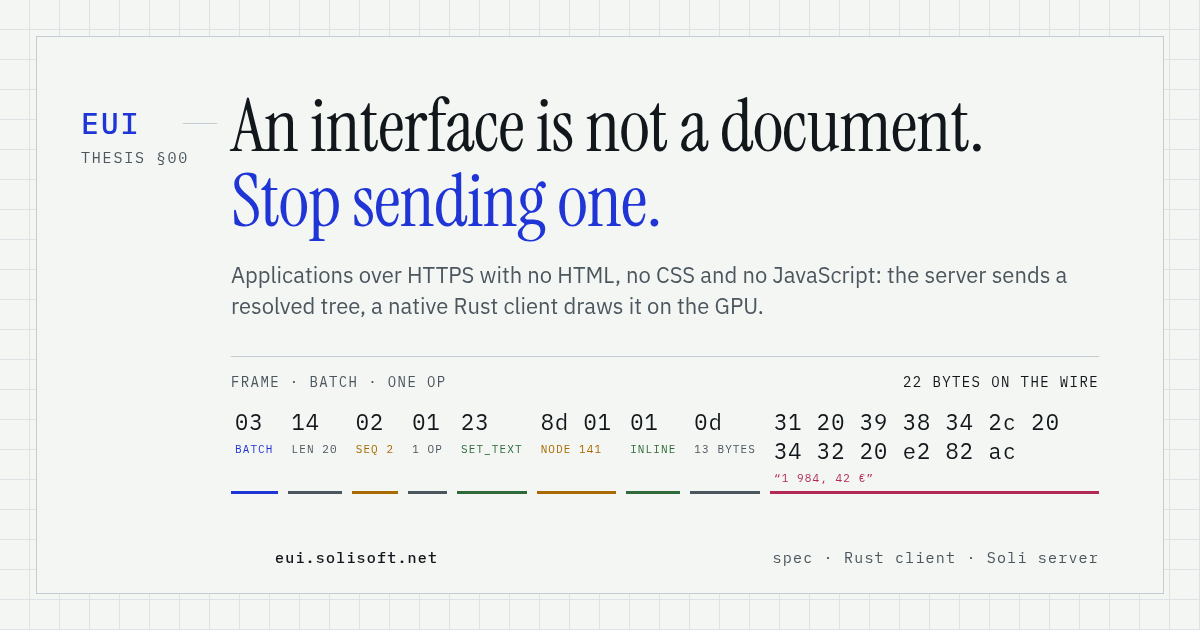
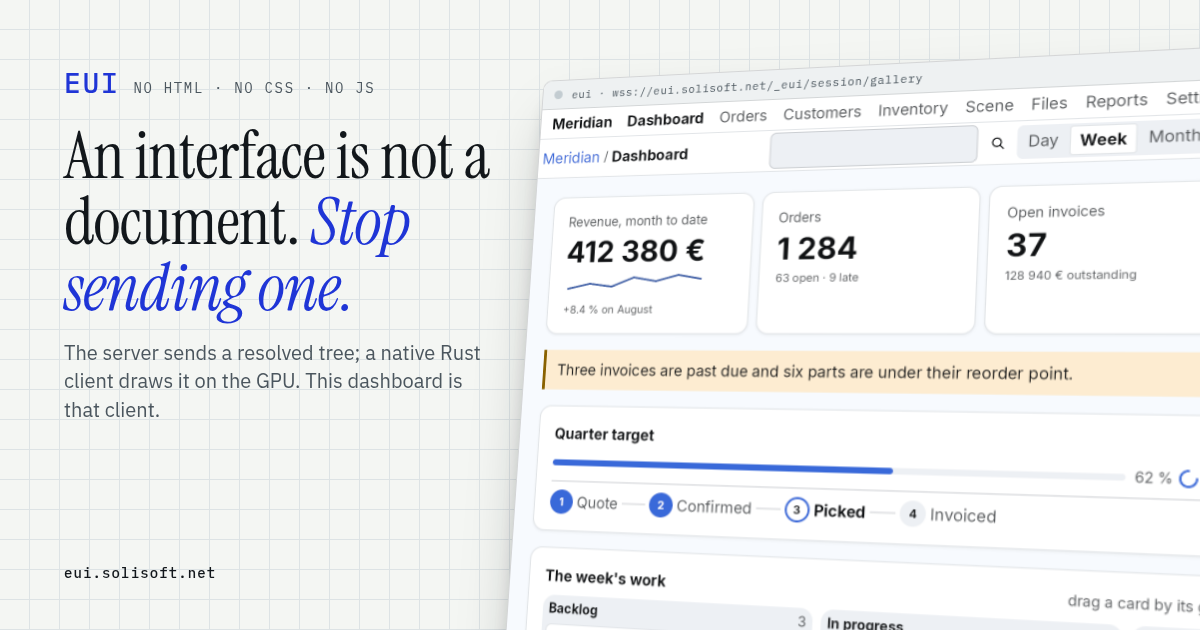
a link to the site unfurls into the demo, and every page carries the whole set of share tags
The share card is the demo's Meridian dashboard — the real render
public/images/demo/gallery-light.png — in a client window turned towards
the reader, its bar showing the session address, beside the thesis.
www/share/card.html is its source; make-share-card.sh now reads the
render from disk beside it.

The layout gives every page its full title (`Phone packages — EUI`),
og:type article for the docs and the spec and website otherwise,
og:image:secure_url, an og:image:alt / twitter:image:alt that describes
the new picture, JSON-LD (WebSite, TechArticle, WebPage), an
apple-touch-icon, a web manifest with 192/512 icons and color-scheme.
DocsController#_missing sets noindex on the docs' own 404.

tests/share_spec.sl asserts every tag on four pages and fetches every
file they name; the whole www suite passes.

Docs: www/README.md, CHANGELOG. No spec change.

diff --git a/www/share/card.html b/www/share/card.html
@@ -5,27 +5,23 @@
   Rendered to public/images/share/eui.png by scripts/make-share-card.sh;
   edit this, run that, commit both.
 
-  Drawn in the site's own hand -- the paper, the rules, the serif thesis and
-  the byte strip of the home page -- because a preview is the first thing
-  most people ever see of it. Every number on it exists in the repository:
-  the frame is the home page's, byte for byte.
+  The client at work rather than a description of it: the demo application's
+  Meridian dashboard, the real render the demo page already shows
+  (public/images/demo/gallery-light.png), in a client window turned towards
+  the reader. The window's bar says what a client is given — a session
+  address, not a page — and the thesis sits beside it in the site's own hand.
 -->
 <html lang="en">
 <head>
 <meta charset="utf-8">
-<link href="https://fonts.googleapis.com/css2?family=IBM+Plex+Mono:wght@400;500&family=IBM+Plex+Sans:wght@400;500&family=Instrument+Serif&display=swap" rel="stylesheet">
+<link href="https://fonts.googleapis.com/css2?family=IBM+Plex+Mono:wght@400;500&family=IBM+Plex+Sans:wght@400;500&family=Instrument+Serif:ital@0;1&display=swap" rel="stylesheet">
 <style>
     :root {
         --paper: #f4f6f3;
-        --paper-sunk: #eceff0;
         --ink: #12171b;
         --ink-soft: #4b565e;
-        --rule: #c3ccd1;
         --rule-faint: #dde3e5;
         --blue: #1f35d6;
-        --amber: #a96a00;
-        --rose: #b32a55;
-        --green: #2f6b3a;
         --serif: "Instrument Serif", Georgia, serif;
         --sans: "IBM Plex Sans", system-ui, sans-serif;
         --mono: "IBM Plex Mono", ui-monospace, monospace;
@@ -33,6 +29,7 @@
     * { box-sizing: border-box; margin: 0; }
     html, body { width: 1200px; height: 630px; overflow: hidden; }
     body {
+        position: relative;
         background: var(--paper);
         color: var(--ink);
         font-family: var(--sans);
@@ -43,74 +40,41 @@
         background-size: 30px 30px;
         background-position: -1px -1px;
     }
-    .sheet {
-        position: absolute; inset: 36px;
-        border: 1px solid var(--rule);
-        background: var(--paper);
-        display: grid;
-        grid-template-columns: 150px 1fr;
-        padding: 52px 64px 44px 44px;
+    .copy { position: absolute; z-index: 2; left: 64px; top: 64px; width: 430px; }
+    .mark { font-family: var(--mono); font-size: 14px; letter-spacing: 0.12em; text-transform: uppercase; color: var(--ink-soft); display: flex; align-items: baseline; gap: 14px; }
+    .mark b { color: var(--blue); font-weight: 500; font-size: 28px; letter-spacing: 0.06em; }
+    h1 { font-family: var(--serif); font-weight: 400; font-size: 66px; line-height: 1.0; letter-spacing: -0.01em; margin-top: 22px; }
+    h1 em { font-style: italic; color: var(--blue); }
+    .claim { margin-top: 18px; font-size: 20px; line-height: 1.42; color: var(--ink-soft); }
+    .url { position: absolute; z-index: 2; left: 64px; bottom: 48px; font-family: var(--mono); font-size: 14px; letter-spacing: 0.08em; color: var(--ink); font-weight: 500; }
+
+    /* A client window: no browser, so no tabs and no address bar. */
+    .win {
+        position: absolute; width: 900px; left: 520px; top: 70px;
+        background: #fff; border: 1px solid rgba(18, 23, 27, 0.18); border-radius: 10px; overflow: hidden;
+        box-shadow: 0 30px 60px -20px rgba(18, 23, 27, 0.35), 0 12px 24px -12px rgba(18, 23, 27, 0.25);
+        transform: perspective(2000px) rotateY(-22deg) rotateX(8deg) rotateZ(1deg);
+        transform-origin: left center;
     }
-    .mark {
-        font-family: var(--mono); font-size: 15px; letter-spacing: 0.12em;
-        text-transform: uppercase; color: var(--ink-soft);
-        padding-top: 14px; position: relative;
+    .bar {
+        height: 30px; display: flex; align-items: center; gap: 10px; padding: 0 12px;
+        background: #eef1f2; border-bottom: 1px solid rgba(18, 23, 27, 0.12);
+        font-family: var(--mono); font-size: 11px; letter-spacing: 0.06em; color: var(--ink-soft); white-space: nowrap;
     }
-    .mark b { display: block; color: var(--blue); font-weight: 500; font-size: 30px; letter-spacing: 0.06em; margin-bottom: 6px; }
-    .mark::after { content: ""; position: absolute; top: 34px; right: 14px; width: 34px; height: 1px; background: var(--rule); }
-    h1 {
-        font-family: var(--serif); font-weight: 400;
-        font-size: 74px; line-height: 1.02; letter-spacing: -0.01em;
-        max-width: 880px;
-    }
-    h1 em { font-style: normal; color: var(--blue); }
-    .claim {
-        margin-top: 20px; font-size: 22px; line-height: 1.4; color: var(--ink-soft); max-width: 840px;
-    }
-    .frame { margin-top: 34px; border-top: 1px solid var(--rule); padding-top: 16px; }
-    .frame-head {
-        display: flex; justify-content: space-between;
-        font-family: var(--mono); font-size: 14px; letter-spacing: 0.1em; text-transform: uppercase; color: var(--ink-soft);
-        margin-bottom: 14px;
-    }
-    .frame-head span:last-child { color: var(--ink); }
-    .bytes { display: flex; gap: 10px; font-family: var(--mono); font-size: 22px; }
-    .field { display: flex; flex-direction: column; gap: 6px; padding: 2px 4px 6px; border-bottom: 3px solid currentColor; }
-    .field .hex { color: var(--ink); letter-spacing: 0.05em; white-space: nowrap; }
-    .f-text .hex { white-space: normal; }
-    .field .name { font-size: 11px; letter-spacing: 0.1em; text-transform: uppercase; white-space: nowrap; }
-    .f-frame { color: var(--blue); } .f-len { color: var(--ink-soft); } .f-op { color: var(--green); }
-    .f-num { color: var(--amber); } .f-text { color: var(--rose); }
-    .foot {
-        position: absolute; left: 238px; right: 64px; bottom: 26px;
-        display: flex; justify-content: space-between;
-        font-family: var(--mono); font-size: 15px; letter-spacing: 0.08em; color: var(--ink-soft);
-    }
-    .foot b { color: var(--ink); font-weight: 500; }
+    .bar i { width: 9px; height: 9px; border-radius: 50%; background: #c3ccd1; flex: none; }
+    .win img { display: block; width: 100%; }
 </style>
 </head>
 <body>
-<div class="sheet">
-    <div class="mark"><b>EUI</b>Thesis §00</div>
-    <div>
+    <div class="copy">
+        <div class="mark"><b>EUI</b><span>no HTML · no CSS · no JS</span></div>
         <h1>An interface is not a document. <em>Stop sending one.</em></h1>
-        <p class="claim">Applications over HTTPS with no HTML, no CSS and no JavaScript: the server sends a resolved tree, a native Rust client draws it on the GPU.</p>
-        <div class="frame">
-            <div class="frame-head"><span>Frame · Batch · one op</span><span>22 bytes on the wire</span></div>
-            <div class="bytes">
-                <span class="field f-frame"><span class="hex">03</span><span class="name">batch</span></span>
-                <span class="field f-len"><span class="hex">14</span><span class="name">len 20</span></span>
-                <span class="field f-num"><span class="hex">02</span><span class="name">seq 2</span></span>
-                <span class="field f-len"><span class="hex">01</span><span class="name">1 op</span></span>
-                <span class="field f-op"><span class="hex">23</span><span class="name">set_text</span></span>
-                <span class="field f-num"><span class="hex">8d 01</span><span class="name">node 141</span></span>
-                <span class="field f-op"><span class="hex">01</span><span class="name">inline</span></span>
-                <span class="field f-len"><span class="hex">0d</span><span class="name">13 bytes</span></span>
-                <span class="field f-text"><span class="hex">31 20 39 38 34 2c 20 34 32 20 e2 82 ac</span><span class="name">“1 984, 42 €”</span></span>
-            </div>
-        </div>
+        <p class="claim">The server sends a resolved tree; a native Rust client draws it on the GPU. This dashboard is that client.</p>
     </div>
-    <div class="foot"><b>eui.solisoft.net</b><span>spec · Rust client · Soli server</span></div>
-</div>
+    <div class="url">eui.solisoft.net</div>
+    <div class="win">
+        <div class="bar"><i></i><span>eui · wss://eui.solisoft.net/_eui/session/gallery</span></div>
+        <img src="../public/images/demo/gallery-light.png" alt="">
+    </div>
 </body>
 </html>

diff --git a/www/README.md b/www/README.md
@@ -8,10 +8,14 @@ beyond fifteen lines that light up a paragraph when you hover a byte.**
 - `app/views/layouts/application.html.slv` — head, fonts, stylesheet.
 - `public/css/site.css` — hand-written, with the design tokens at the top.
 - `share/card.html` — the 1200 × 630 picture a link to the site unfurls into
-  (Open Graph and X cards, which the layout declares on every page). It is
-  rendered to `public/images/share/eui.png` by `../scripts/make-share-card.sh`,
-  which needs a Chromium; edit the HTML, run the script, commit both. Its
-  byte strip is the hero's twenty-two bytes, and follows the rule below.
+  (Open Graph and X cards, which the layout declares on every page, with the
+  canonical URL, an `og:image:alt`, JSON-LD, the touch icon and
+  `public/manifest.json`). It is the demo's Meridian dashboard — the real
+  render `public/images/demo/gallery-light.png` — in a client window beside
+  the thesis, rendered to `public/images/share/eui.png` by
+  `../scripts/make-share-card.sh`, which needs a Chromium; edit the HTML (or
+  re-take the demo render), run the script, commit both.
+  `tests/share_spec.sl` checks every tag and fetches every file they name.
 
 The documentation site is the sibling app in `../doc`.
 

diff --git a/CHANGELOG.md b/CHANGELOG.md
@@ -57,6 +57,12 @@ release. A wire change lands here first, is released, and then the pin moves.
 - The site's masthead has no `Spec` entry — the specification is a section
   of the documentation's own contents — and shows the GitHub mark where it
   said `Source`.
+- A link to the site unfurls into the demo application: its Meridian
+  dashboard in a client window beside the thesis, instead of a text card.
+  Every page now carries its full title (`Phone packages — EUI`), `og:type`
+  `article` for the documentation and the specification, an `og:image:alt`
+  that describes the picture, JSON-LD, a touch icon and a web manifest; the
+  documentation's own 404 asks not to be indexed.
 - Documentation pages fit a phone: the contents fold into one line naming the
   current page, and the masthead wraps instead of running off the edge.
 
